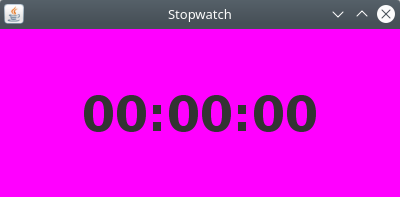
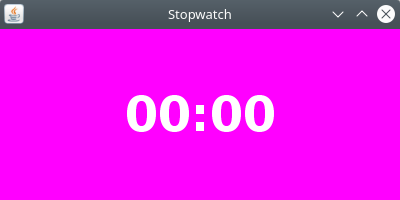
added background and foreground colors, and refactored

diff --git a/README.md b/README.md
@@ -18,9 +18,9 @@ cd stopwatchbot
 ```
 Copy the template environment file to create your own config.env:
 ```bash
-cp config.env.template config.env
+cp config.edn.template config.edn
 ```
-Open the config.env file and fill in the USERNAME, TOKEN, CHANNEL, and ALLOWED variables, and change the FONT if needed. [Here](https://dev.twitch.tv/docs/authentication/getting-tokens-oauth/) is explained how to get the OAUTH token for Twitch.
+Open the config.edn file and change the login credentials, and allowed users who can use the `!sw` chat bot command. [Here](https://dev.twitch.tv/docs/authentication/getting-tokens-oauth/) is explained how to get the OAUTH token for Twitch. Optionally you can adjust the other settings as well.
 
 ## Usage
 Start the bot by running the run.sh script:
@@ -35,6 +35,17 @@ Sending token
 Sending: NICK 10x_programmer
 Sending: JOIN #10x_programmer
 Sending: PRIVMSG #10x_programmer :stopwatch-bot ready
+
+Received:  :tmi.twitch.tv 001 10x_programmer :Welcome, GLHF!
+:tmi.twitch.tv 002 10x_programmer :Your host is tmi.twitch.tv
+:tmi.twitch.tv 003 10x_programmer :This server is rather new
+:tmi.twitch.tv 004 10x_programmer :-
+:tmi.twitch.tv 375 10x_programmer :-
+:tmi.twitch.tv 372 10x_programmer :You are in a maze of twisty passages, all alike.
+:tmi.twitch.tv 376 10x_programmer :>
+Received:  :10x_programmer!10x_programmer@10x_programmer.tmi.twitch.tv JOIN #10x_programmer
+:10x_programmer.tmi.twitch.tv 353 10x_programmer = #10x_programmer :10x_programmer
+:10x_programmer.tmi.twitch.tv 366 10x_programmer #10x_programmer :End of /NAMES list
 ```
 and a window like this will open:
 
@@ -55,4 +66,5 @@ From the chat where the bot has joined, you can now start the countdown. There a
 3. HH:MM:SS (Hours:Minutes:Seconds):
    - Use this format to represent time in hours, minutes, and seconds.
    - Example: `!sw 1:15:30` represents 1 hour, 15 minutes, and 30 seconds.
-   
+
+On the terminal, you can also enter chat messages, which will be sent to the IRC server. You can stop the bot with ctrl-c.
